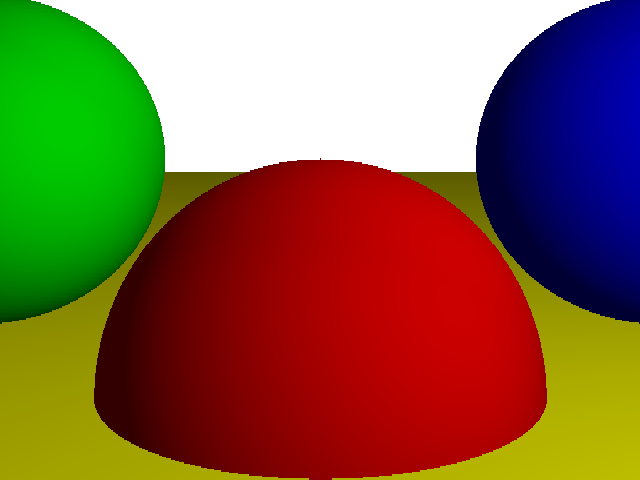
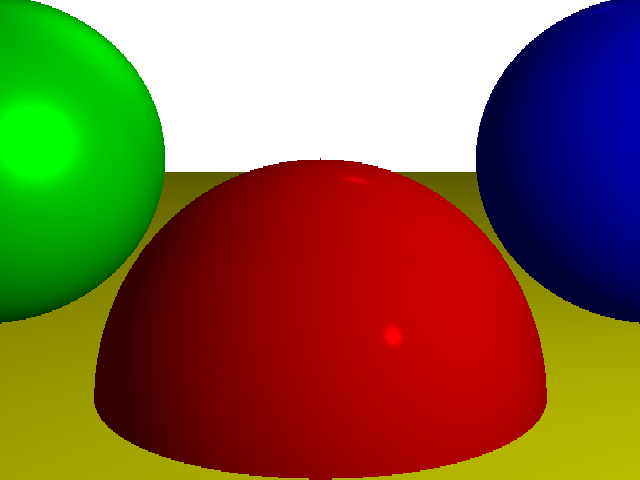
add specular lights

diff --git a/src/scene.rs b/src/scene.rs
@@ -1,6 +1,6 @@
 use crate::color::Color;
 use crate::geometry::Sphere;
-use crate::light::{AmbientLight, DirectionalLight, Light, OminidirectionalLight};
+use crate::light::Light;
 use crate::math::Vector3;
 use std::fs::File;
 use std::io::prelude::*;
@@ -55,7 +55,7 @@ impl Default for Camera {
 pub struct Scene {
     pub camera: Camera,
     pub spheres: Vec<Sphere>,
-    pub lights: Vec<Box<dyn Light>>,
+    pub lights: Vec<Light>,
 }
 
 impl Scene {
@@ -98,25 +98,25 @@ impl Scene {
             let light_type = light_data["type"].as_str().unwrap();
             let light_intensity = light_data["intensity"].as_f64().unwrap() as f32;
             let light = if light_type == "ambient" {
-                Box::new(AmbientLight::new(light_intensity)) as Box<dyn Light>
+                Light::Ambient(light_intensity)
             } else if light_type == "omnidirectional" {
-                Box::new(OminidirectionalLight::new(
+                Light::OmniDirectional(
                     light_intensity,
                     Vector3::new(
                         light_data["source"]["x"].as_f64().unwrap() as f32,
                         light_data["source"]["y"].as_f64().unwrap() as f32,
                         light_data["source"]["z"].as_f64().unwrap() as f32,
                     ),
-                )) as Box<dyn Light>
+                )
             } else if light_type == "directional" {
-                Box::new(DirectionalLight::new(
+                Light::Directional(
                     light_intensity,
                     Vector3::new(
                         light_data["direction"]["x"].as_f64().unwrap() as f32,
                         light_data["direction"]["y"].as_f64().unwrap() as f32,
                         light_data["direction"]["z"].as_f64().unwrap() as f32,
                     ),
-                )) as Box<dyn Light>
+                )
             } else {
                 panic!("Unsupported light type");
             };
@@ -137,6 +137,7 @@ impl Scene {
                     sphere_data["color"]["g"].as_f64().unwrap() as f32,
                     sphere_data["color"]["b"].as_f64().unwrap() as f32,
                 ),
+                sphere_data["specular"].as_f64().unwrap() as f32,
             );
             scene.spheres.push(sphere);
         }

diff --git a/src/render.rs b/src/render.rs
@@ -1,8 +1,56 @@
 use crate::canvas::Canvas;
 use crate::color::Color;
+use crate::light::Light;
 use crate::math::Vector3;
 use crate::scene::Scene;
 use std::f32::INFINITY;
+
+fn compute_light(scene: &Scene, p: Vector3, n: Vector3, v: Vector3, s: f32) -> f32 {
+    let mut i = 0.0;
+    for light in scene.lights.iter() {
+        if let Light::Ambient(intensity) = light {
+            i += intensity;
+        } else {
+            let (l, intensity) = {
+                let l;
+                let intensity;
+
+                match light {
+                    Light::OmniDirectional(i, source) => {
+                        intensity = i;
+                        l = *source - p;
+                    }
+                    Light::Directional(i, direction) => {
+                        intensity = i;
+                        l = *direction;
+                    }
+                    _ => {
+                        continue;
+                    }
+                }
+
+                (l, intensity)
+            };
+
+            // Diffuse
+            let n_dot_l = n.dot(l);
+            if n_dot_l > 0.0 {
+                i += intensity * n_dot_l / (n.length() * l.length());
+            }
+
+            // // Specular
+            if s > -1.0 {
+                let r = n * n.dot(l) * 2.0 - l;
+                let r_dot_v = r.dot(v);
+                if r_dot_v > 0.0 {
+                    i += intensity * (r_dot_v / (r.length() * v.length())).powf(s)
+                }
+            }
+        }
+    }
+
+    i
+}
 
 /**
  * @brief Trace a ray into the scene
@@ -27,13 +75,7 @@ fn trace_ray(scene: &Scene, d: Vector3, t_min: f32, t_max: f32) -> Color {
         let color = sphere.color;
         let p = scene.camera.position + d * closest_t;
         let n = (p - sphere.center).normalize();
-        let mut light_intensity = 0.0;
-        for light in scene.lights.iter() {
-            light_intensity += light.compute(p, n);
-        }
-        light_intensity = light_intensity.clamp(0.0, 1.0);
-
-        return color * light_intensity;
+        return color * compute_light(&scene, p, n, -d, sphere.specular);
     }
 
     Color::WHITE

diff --git a/src/light.rs b/src/light.rs
@@ -1,71 +1,7 @@
 use crate::math::Vector3;
 
-pub trait Light {
-    fn compute(&self, point: Vector3, normal: Vector3) -> f32;
-}
-
-pub struct AmbientLight {
-    intensity: f32,
-}
-
-impl AmbientLight {
-    pub fn new(intensity: f32) -> Self {
-        Self { intensity }
-    }
-}
-
-impl Light for AmbientLight {
-    fn compute(&self, _point: Vector3, _normal: Vector3) -> f32 {
-        self.intensity
-    }
-}
-
-pub struct OminidirectionalLight {
-    intensity: f32,
-    source: Vector3,
-}
-
-impl OminidirectionalLight {
-    pub fn new(intensity: f32, source: Vector3) -> Self {
-        Self { intensity, source }
-    }
-}
-
-impl Light for OminidirectionalLight {
-    fn compute(&self, point: Vector3, normal: Vector3) -> f32 {
-        let direction = self.source - point;
-        let dot = normal.dot(direction);
-
-        if dot > 0.0 {
-            self.intensity * dot / (normal.length() * direction.length())
-        } else {
-            0.0
-        }
-    }
-}
-
-pub struct DirectionalLight {
-    intensity: f32,
-    direction: Vector3,
-}
-
-impl DirectionalLight {
-    pub fn new(intensity: f32, direction: Vector3) -> Self {
-        Self {
-            intensity,
-            direction,
-        }
-    }
-}
-
-impl Light for DirectionalLight {
-    fn compute(&self, _point: Vector3, normal: Vector3) -> f32 {
-        let dot = normal.dot(self.direction);
-
-        if dot > 0.0 {
-            self.intensity * dot / (normal.length() * self.direction.length())
-        } else {
-            0.0
-        }
-    }
+pub enum Light {
+    Ambient(f32),
+    OmniDirectional(f32, Vector3),
+    Directional(f32, Vector3),
 }

diff --git a/src/geometry.rs b/src/geometry.rs
@@ -12,6 +12,7 @@ pub struct Sphere {
     /** @brief Radius of the sphere */
     pub radius: f32,
     pub color: Color,
+    pub specular: f32,
 }
 
 impl Sphere {
@@ -22,11 +23,12 @@ impl Sphere {
      * @param radius the radius of the sphere
      * @param color the color of the sphere
      */
-    pub fn new(center: Vector3, radius: f32, color: Color) -> Self {
+    pub fn new(center: Vector3, radius: f32, color: Color, specular: f32) -> Self {
         Self {
             center,
             radius,
             color,
+            specular,
         }
     }
 

diff --git a/src/math.rs b/src/math.rs
@@ -1,6 +1,7 @@
 use std::ops::Add;
 use std::ops::Div;
 use std::ops::Mul;
+use std::ops::Neg;
 use std::ops::Sub;
 
 /**
@@ -49,6 +50,14 @@ impl Vector3 {
 impl Default for Vector3 {
     fn default() -> Self {
         Self::new(0.0, 0.0, 0.0)
+    }
+}
+
+impl Neg for Vector3 {
+    type Output = Self;
+
+    fn neg(self) -> Self::Output {
+        Self::Output::new(-self.x, -self.y, -self.z)
     }
 }
 
